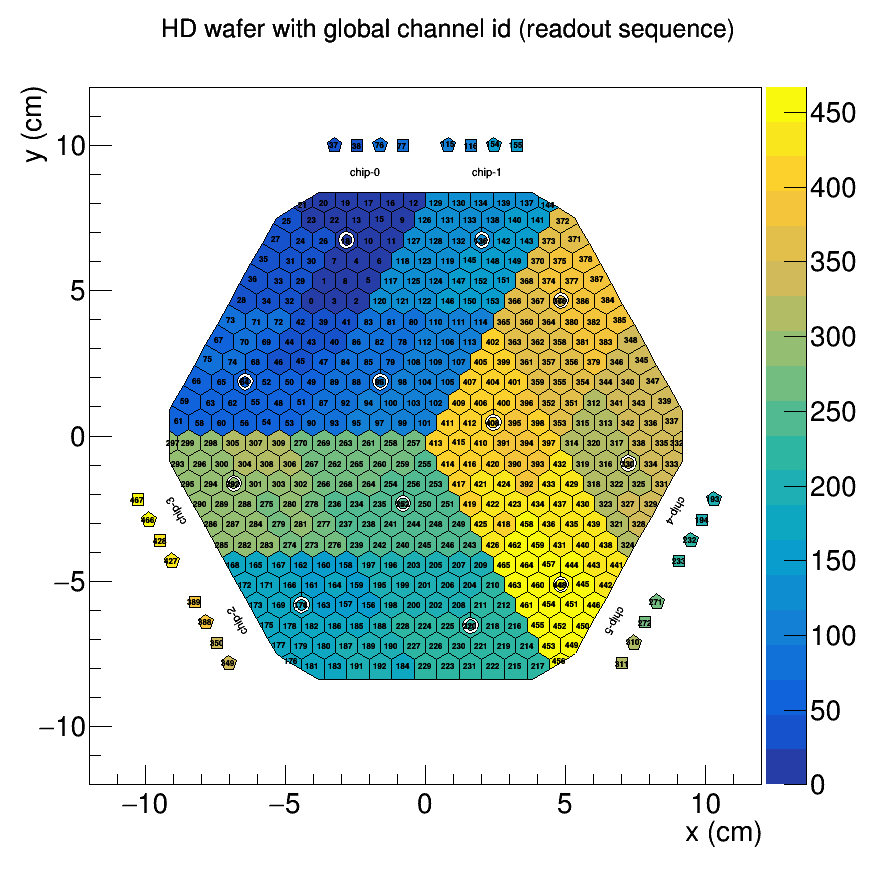
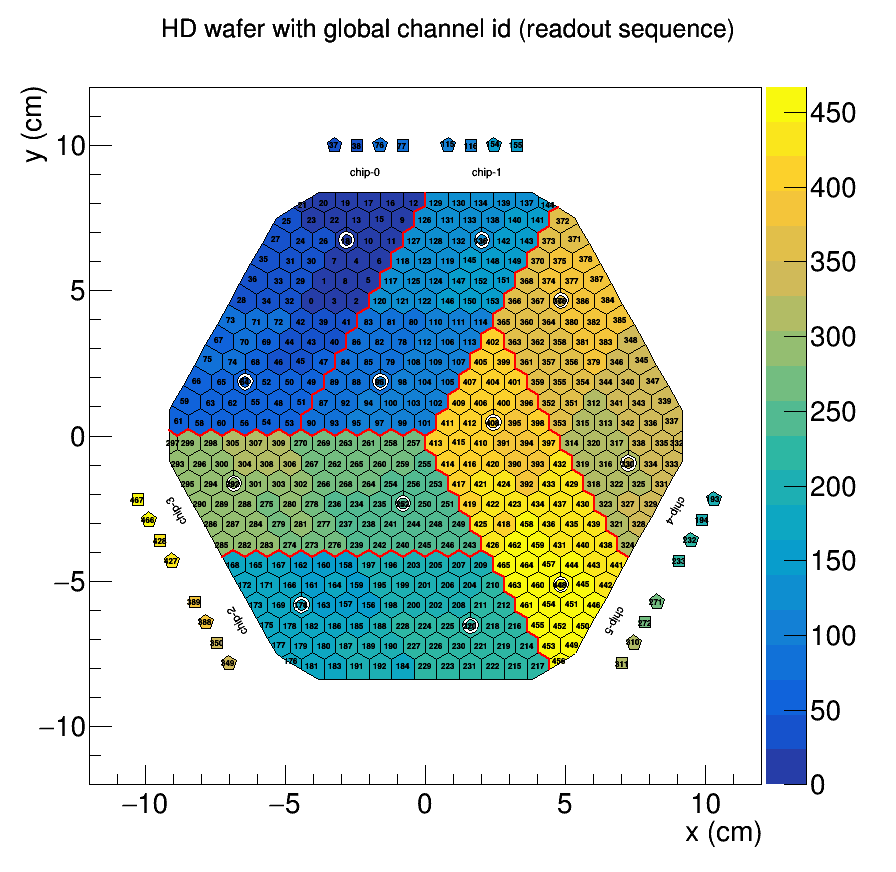
Add boundary lines for the HD wafer

diff --git a/include/auxiliary_boundary_lines_HD_full_wafer.h b/include/auxiliary_boundary_lines_HD_full_wafer.h
@@ -2,14 +2,20 @@
 #define __auxiliary_boundary_lines_HD_full_wafer__
 
 namespace aux {
-const int N_HD_boundary_points = 25;
+const int N_HD_boundary_points = 24;
 
-double x1_HD_full_wafer[N_HD_boundary_points] = {0.000000, 0.000000, -0.402702, -0.402702, -0.805404, -0.805404, -1.208105, -1.208105, -1.610807, -1.610807, -2.013509, -2.013509, -2.416211, -2.416211, -2.818913, -2.818913, -3.221615, -3.221615, -3.624316, -3.624316, -4.027018, -4.027018, -4.429720, -4.429720, -4.832422};
-double y1_HD_full_wafer[N_HD_boundary_points] = {8.370000, 7.905000, 7.672500, 7.207500, 6.975000, 6.510000, 6.277500, 5.812500, 5.580000, 5.115000, 4.882500, 4.417500, 4.185000, 3.720000, 3.487500, 3.022500, 2.790000, 2.325000, 2.092500, 1.627500, 1.395000, 0.930000, 0.697500, 0.232500, 0.000000};
-double x2_HD_full_wafer[N_HD_boundary_points] = {-9.161466, -8.859440, -8.456738, -8.054036, -7.651334, -7.248633, -6.845931, -6.443229, -6.040527, -5.637825, -5.235124, -4.832422, -4.429720, -4.027018, -3.624316, -3.221615, -2.818913, -2.416211, -2.013509, -1.610807, -1.208105, -0.805404, -0.402702, -0.000000};
-double y2_HD_full_wafer[N_HD_boundary_points] = {0.174375, 0.000000, 0.232500, 0.000000, 0.232500, 0.000000, 0.232500, -0.000000, 0.232500, 0.000000, 0.232500, 0.000000, 0.232500, -0.000000, 0.232500, -0.000000, 0.232500, -0.000000, 0.232500, -0.000000, 0.232500, -0.000000, 0.232500, -0.000000};
-double x3_HD_full_wafer[N_HD_boundary_points] = {4.731746, 4.429720, 4.429720, 4.027018, 4.027018, 3.624316, 3.624316, 3.221615, 3.221615, 2.818913, 2.818913, 2.416211, 2.416211, 2.013509, 2.013509, 1.610807, 1.610807, 1.208105, 1.208105, 0.805404, 0.805404, 0.402702, 0.402702, -0.000000};
-double y3_HD_full_wafer[N_HD_boundary_points] = {7.846875, 7.672500, 7.207500, 6.975000, 6.510000, 6.277500, 5.812500, 5.580000, 5.115000, 4.882500, 4.417500, 4.185000, 3.720000, 3.487500, 3.022500, 2.790000, 2.325000, 2.092500, 1.627500, 1.395000, 0.930000, 0.697500, 0.232500, -0.000000};
+double x1_HD_full_wafer[N_HD_boundary_points] = {-9.161466, -8.859440, -8.456738, -8.054036, -7.651334, -7.248633, -6.845931, -6.443229, -6.040527, -5.637825, -5.235124, -4.832422, -4.429720, -4.027018, -3.624316, -3.221615, -2.818913, -2.416211, -2.013509, -1.610807, -1.208105, -0.805404, -0.402702, -0.000000};
+double y1_HD_full_wafer[N_HD_boundary_points] = {0.174375, 0.000000, 0.232500, 0.000000, 0.232500, 0.000000, 0.232500, -0.000000, 0.232500, 0.000000, 0.232500, 0.000000, 0.232500, -0.000000, 0.232500, -0.000000, 0.232500, -0.000000, 0.232500, -0.000000, 0.232500, -0.000000, 0.232500, -0.000000};
+double x2_HD_full_wafer[N_HD_boundary_points] = {4.731746, 4.429720, 4.429720, 4.027018, 4.027018, 3.624316, 3.624316, 3.221615, 3.221615, 2.818913, 2.818913, 2.416211, 2.416211, 2.013509, 2.013509, 1.610807, 1.610807, 1.208105, 1.208105, 0.805404, 0.805404, 0.402702, 0.402702, -0.000000};
+double y2_HD_full_wafer[N_HD_boundary_points] = {7.846875, 7.672500, 7.207500, 6.975000, 6.510000, 6.277500, 5.812500, 5.580000, 5.115000, 4.882500, 4.417500, 4.185000, 3.720000, 3.487500, 3.022500, 2.790000, 2.325000, 2.092500, 1.627500, 1.395000, 0.930000, 0.697500, 0.232500, -0.000000};
+double x3_HD_full_wafer[N_HD_boundary_points] = {4.429720, 4.429720, 4.027018, 4.027018, 3.624316, 3.624316, 3.221615, 3.221615, 2.818913, 2.818913, 2.416211, 2.416211, 2.013509, 2.013509, 1.610807, 1.610807, 1.208105, 1.208105, 0.805404, 0.805404, 0.402702, 0.402702, -0.000000, -0.000000};
+double y3_HD_full_wafer[N_HD_boundary_points] = {-8.021250, -7.672500, -7.440000, -6.975000, -6.742500, -6.277500, -6.045000, -5.580000, -5.347500, -4.882500, -4.650000, -4.185000, -3.952500, -3.487500, -3.255000, -2.790000, -2.557500, -2.092500, -1.860000, -1.395000, -1.162500, -0.697500, -0.465000, -0.000000};
+double x4_HD_full_wafer[N_HD_boundary_points] = {0.000000, 0.000000, -0.402702, -0.402702, -0.805404, -0.805404, -1.208105, -1.208105, -1.610807, -1.610807, -2.013509, -2.013509, -2.416211, -2.416211, -2.818913, -2.818913, -3.221615, -3.221615, -3.624316, -3.624316, -4.027018, -4.027018, -4.429720, -4.429720};
+double y4_HD_full_wafer[N_HD_boundary_points] = {8.370000, 7.905000, 7.672500, 7.207500, 6.975000, 6.510000, 6.277500, 5.812500, 5.580000, 5.115000, 4.882500, 4.417500, 4.185000, 3.720000, 3.487500, 3.022500, 2.790000, 2.325000, 2.092500, 1.627500, 1.395000, 0.930000, 0.697500, 0.232500};
+double x5_HD_full_wafer[N_HD_boundary_points] = {7.248633, 6.845931, 6.845931, 6.443229, 6.443229, 6.040527, 6.040527, 5.637825, 5.637825, 5.235124, 5.235124, 4.832422, 4.832422, 4.429720, 4.429720, 4.027018, 4.027018, 3.624316, 3.624316, 3.221615, 3.221615, 2.818913, 2.818913, 2.416211};
+double y5_HD_full_wafer[N_HD_boundary_points] = {-4.185000, -3.952500, -3.487500, -3.255000, -2.790000, -2.557500, -2.092500, -1.860000, -1.395000, -1.162500, -0.697500, -0.465000, -0.000000, 0.232500, 0.697500, 0.930000, 1.395000, 1.627500, 2.092500, 2.325000, 2.790000, 3.022500, 3.487500, 3.720000};
+double x6_HD_full_wafer[N_HD_boundary_points] = {-7.248633, -6.845931, -6.443229, -6.040527, -5.637825, -5.235124, -4.832422, -4.429720, -4.027018, -3.624316, -3.221615, -2.818913, -2.416211, -2.013509, -1.610807, -1.208105, -0.805404, -0.402702, -0.000000, 0.402702, 0.805404, 1.208105, 1.610807, 2.013509};
+double y6_HD_full_wafer[N_HD_boundary_points] = {-4.185000, -3.952500, -4.185000, -3.952500, -4.185000, -3.952500, -4.185000, -3.952500, -4.185000, -3.952500, -4.185000, -3.952500, -4.185000, -3.952500, -4.185000, -3.952500, -4.185000, -3.952500, -4.185000, -3.952500, -4.185000, -3.952500, -4.185000, -3.952500};
 }; // end of aux
 
 #endif // __auxiliary_boundary_lines_HD_full_wafer__

diff --git a/toolbox/queries_for_coordinates.py b/toolbox/queries_for_coordinates.py
@@ -155,34 +155,6 @@ query_partial_wafer_line2 = [
 a = [2, 4, 0]
 b = [3, 5, 1]
 query_HD_full_wafer_line1 = [
-    [[12, 129], [0, 4]],
-    [[12, 129, 126], [1, 3, 0]],
-    [[12, 126, 9], [2, 5, 1]],
-    [[9, 126, 127], a],
-    [[9, 127, 11], b],
-    [[11, 127, 118], a],
-    [[11, 118, 6], b],
-    [[6, 118, 117], a],
-    [[6, 117, 5], b],
-    [[5, 117, 120], a],
-    [[5, 120, 2], b],
-    [[2, 120, 83], a],
-    [[2, 83, 41], b],
-    [[41, 83, 86], a],
-    [[41, 86, 40], b],
-    [[40, 86, 84], a],
-    [[40, 84, 47], b],
-    [[47, 84, 89], a],
-    [[47, 89, 49], b],
-    [[49, 89, 87], a],
-    [[49, 87, 51], b],
-    [[51, 87, 90], a],
-    [[51, 90, 53], b],
-    [[53, 90, 270], a],
-    [[53, 270, 309], b],
-]
-
-query_HD_full_wafer_line2 = [
     [[61, 297], [0, 1]],
     [[61, 299, 297], [5, 5, 2]],
     [[61, 58, 299], [4, 4, 0]],
@@ -209,7 +181,7 @@ query_HD_full_wafer_line2 = [
     [[101, 257, 413], b],
 ]
 
-query_HD_full_wafer_line3 = [
+query_HD_full_wafer_line2 = [
     [[144, 372], [1, 0]],
     [[144, 372, 141], [2, 5, 1]],
     [[141, 372, 373], a],
@@ -234,4 +206,112 @@ query_HD_full_wafer_line3 = [
     [[102, 411, 101], b],
     [[101, 411, 413], a],
     [[101, 413, 257], b],
+]
+
+query_HD_full_wafer_line3 = [
+    [[456, 217], [1, 0]],
+    [[453, 456, 217], [3, 2, 5]],
+    [[214, 453, 217], [2, 4, 4]],
+    [[455, 453, 214], b],
+    [[216, 455, 214], a],
+    [[461, 455, 216], b],
+    [[212, 461, 216], a],
+    [[463, 461, 212], b],
+    [[210, 463, 212], a],
+    [[465, 463, 210], b],
+    [[209, 465, 210], a],
+    [[426, 465, 209], b],
+    [[243, 426, 209], a],
+    [[425, 426, 243], b],
+    [[249, 425, 243], a],
+    [[419, 425, 249], b],
+    [[251, 419, 249], a],
+    [[417, 419, 251], b],
+    [[253, 417, 251], a],
+    [[414, 417, 253], b],
+    [[255, 414, 253], a],
+    [[413, 414, 255], b],
+    [[257, 413, 255], a],
+    [[101, 413, 257], b],
+]
+
+query_HD_full_wafer_line4 = [
+    [[12, 129], [0, 4]],
+    [[12, 129, 126], [1, 3, 0]],
+    [[12, 126, 9], [2, 5, 1]],
+    [[9, 126, 127], a],
+    [[9, 127, 11], b],
+    [[11, 127, 118], a],
+    [[11, 118, 6], b],
+    [[6, 118, 117], a],
+    [[6, 117, 5], b],
+    [[5, 117, 120], a],
+    [[5, 120, 2], b],
+    [[2, 120, 83], a],
+    [[2, 83, 41], b],
+    [[41, 83, 86], a],
+    [[41, 86, 40], b],
+    [[40, 86, 84], a],
+    [[40, 84, 47], b],
+    [[47, 84, 89], a],
+    [[47, 89, 49], b],
+    [[49, 89, 87], a],
+    [[49, 87, 51], b],
+    [[51, 87, 90], a],
+    [[51, 90, 53], b],
+    [[53, 90, 270], a],
+]
+
+query_HD_full_wafer_line5 = [
+    [[324, 441], [2, 1]],
+    [[438, 324, 441], [2, 3, 0]],
+    [[321, 324, 438], [3, 4, 1]],
+    [[439, 321, 438], a],
+    [[323, 321, 439], b],
+    [[430, 323, 439], a],
+    [[318, 323, 430], b],
+    [[429, 318, 430], a],
+    [[319, 318, 429], b],
+    [[432, 319, 429], a],
+    [[314, 319, 432], b],
+    [[397, 314, 432], a],
+    [[353, 314, 397], b],
+    [[398, 353, 397], a],
+    [[352, 353, 398], b],
+    [[396, 352, 398], a],
+    [[359, 352, 396], b],
+    [[401, 359, 396], a],
+    [[361, 359, 401], b],
+    [[399, 361, 401], a],
+    [[363, 361, 399], b],
+    [[402, 363, 399], a],
+    [[365, 363, 402], b],
+    [[114, 365, 402], a],
+]
+
+query_HD_full_wafer_line6 = [
+    [[285, 168], [3, 4]],
+    [[285, 282, 168], [2, 4, 0]],
+    [[282, 165, 168], [3, 5, 1]],
+    [[282, 283, 165], a],
+    [[283, 167, 165], b],
+    [[283, 274, 167], a],
+    [[274, 162, 167], b],
+    [[274, 273, 162], a],
+    [[273, 160, 162], b],
+    [[273, 276, 160], a],
+    [[276, 158, 160], b],
+    [[276, 239, 158], a],
+    [[239, 197, 158], b],
+    [[239, 242, 197], a],
+    [[242, 196, 197], b],
+    [[242, 240, 196], a],
+    [[240, 203, 196], b],
+    [[240, 245, 203], a],
+    [[245, 205, 203], b],
+    [[245, 246, 205], a],
+    [[246, 207, 205], b],
+    [[246, 243, 207], a],
+    [[243, 209, 207], b],
+    [[243, 426, 209], a],
 ]

diff --git a/toolbox/coordinate_loader.py b/toolbox/coordinate_loader.py
@@ -108,11 +108,14 @@ if __name__ == "__main__":
         fout.write("\n")
 
         fout.write("namespace aux {\n")
-        fout.write("const int N_HD_boundary_points = 25;\n")
+        fout.write("const int N_HD_boundary_points = 24;\n")
         fout.write("\n")
         print_coordinate(("x1_HD_full_wafer", "y1_HD_full_wafer"), tc.query_HD_full_wafer_line1, "N_HD_boundary_points")
         print_coordinate(("x2_HD_full_wafer", "y2_HD_full_wafer"), tc.query_HD_full_wafer_line2, "N_HD_boundary_points")
         print_coordinate(("x3_HD_full_wafer", "y3_HD_full_wafer"), tc.query_HD_full_wafer_line3, "N_HD_boundary_points")
+        print_coordinate(("x4_HD_full_wafer", "y4_HD_full_wafer"), tc.query_HD_full_wafer_line4, "N_HD_boundary_points")
+        print_coordinate(("x5_HD_full_wafer", "y5_HD_full_wafer"), tc.query_HD_full_wafer_line5, "N_HD_boundary_points")
+        print_coordinate(("x6_HD_full_wafer", "y6_HD_full_wafer"), tc.query_HD_full_wafer_line6, "N_HD_boundary_points")
         fout.write("}; // end of aux\n")
 
         fout.write("\n")

diff --git a/th2poly.C b/th2poly.C
@@ -217,6 +217,9 @@ void beautify_plot(bool drawLine = true, bool drawText = true, TString NameTag =
             line.DrawLine(aux::x1_HD_full_wafer[i], aux::y1_HD_full_wafer[i], aux::x1_HD_full_wafer[i+1], aux::y1_HD_full_wafer[i+1]);
             line.DrawLine(aux::x2_HD_full_wafer[i], aux::y2_HD_full_wafer[i], aux::x2_HD_full_wafer[i+1], aux::y2_HD_full_wafer[i+1]);
             line.DrawLine(aux::x3_HD_full_wafer[i], aux::y3_HD_full_wafer[i], aux::x3_HD_full_wafer[i+1], aux::y3_HD_full_wafer[i+1]);
+            line.DrawLine(aux::x4_HD_full_wafer[i], aux::y4_HD_full_wafer[i], aux::x4_HD_full_wafer[i+1], aux::y4_HD_full_wafer[i+1]);
+            line.DrawLine(aux::x5_HD_full_wafer[i], aux::y5_HD_full_wafer[i], aux::x5_HD_full_wafer[i+1], aux::y5_HD_full_wafer[i+1]);
+            line.DrawLine(aux::x6_HD_full_wafer[i], aux::y6_HD_full_wafer[i], aux::x6_HD_full_wafer[i+1], aux::y6_HD_full_wafer[i+1]);
         }
 
     } else if(drawLine) {
